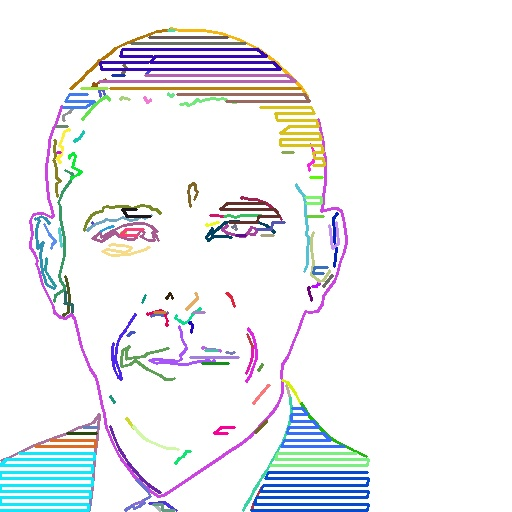
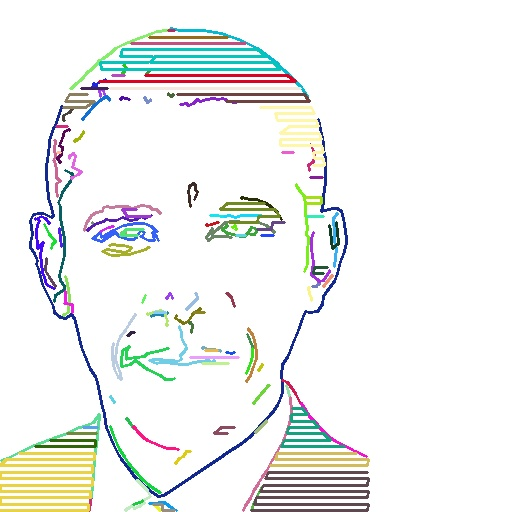
q

diff --git a/full_face_processing.py b/full_face_processing.py
@@ -614,7 +614,7 @@ def process_combo_raw(filename):
     segments = process_edges_raw(filename, blur_radius = 11, lower_thresh = 10,
         upper_thresh = 50, segmentSplitDistance=15, areaCut = 3,
         minNumPixels = 15)
-    segments.extend(process_shading_raw(filename, density = 10, areaCut=1))
+    segments.extend(process_shading_raw(filename, density = 10, areaCut=1, minNumPixels=5, segmentSplitDistance=10))
     
     return segments
 
@@ -626,10 +626,10 @@ if __name__ == "__main__":
 
     filename = "small_obama.jpg"
 
-    # segments = process_combo(filename, 30, 1, 1, 120)
-    # plot_path_full(segments)
+    segments = process_combo(filename, 30, .001, 1, 520)
+    plot_path_full(segments)
 
-    segments= process_combo_raw(filename)
-    # segments = process_shading_raw(filename)
-    # segments = process_edges_raw(filename)
-    plot_segments(segments)
+    # segments= process_combo_raw(filename)
+    # # segments = process_shading_raw(filename)
+    # # segments = process_edges_raw(filename)
+    # plot_segments(segments)
